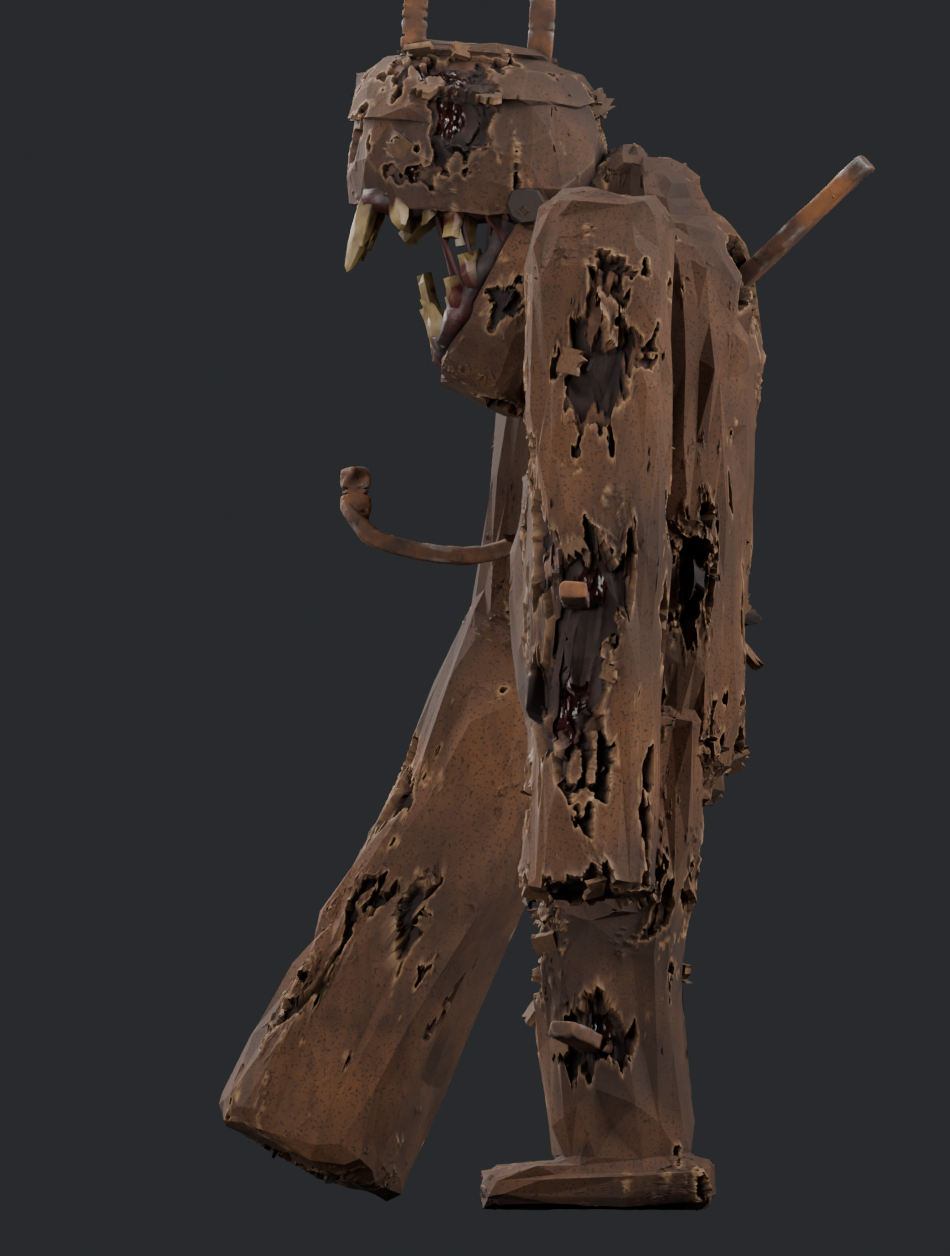
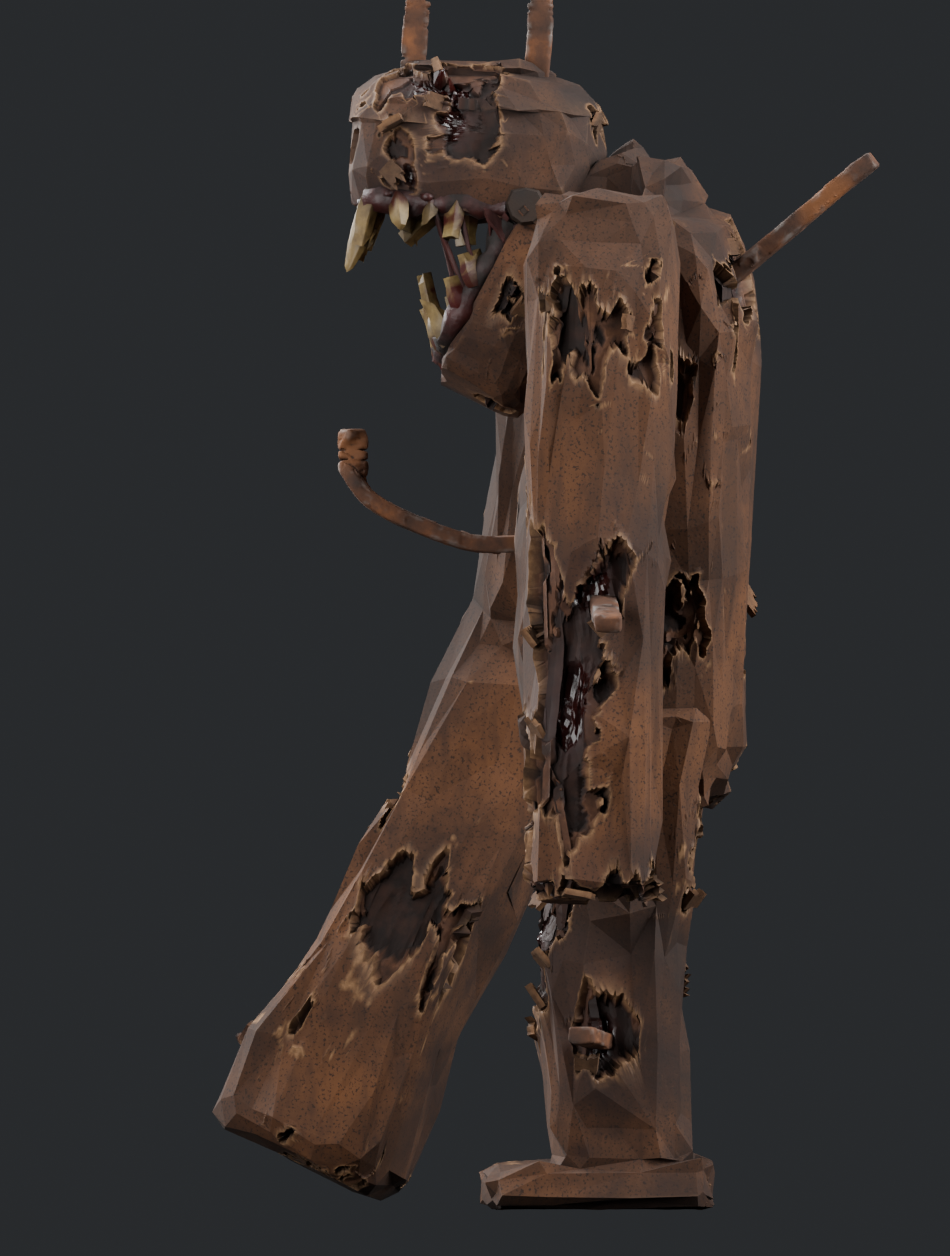
R08 HD review: side render of the corrected model; validation notes
Claude-Session: https://claude.ai/code/session_011jgRj8L94hoT2MMQsQ9zqL

diff --git a/docs/R08_GAP_ANALYSIS.md b/docs/R08_GAP_ANALYSIS.md
@@ -56,3 +56,40 @@ measured proportions.
 | `Jaw` | 11-section smooth wedge | heavy U loft tapering from the chin to the rami, condyles; ~330 facets; carved mouth floor; broken right side, chipped chin; dislocated 66° hinge |
 | `Bars`, `Crown_Bracket` | thin flat polylines | remeshed, hammered flat bars with rivets and entry wounds |
 | `Teeth_*`, `Gums_*`, `Mouth_*`, `Jaw_Hinges`, `Palate`, `Tongue`, `Throat`, `Eyes` | fitted to the old head | rebuilt for the new skull and jaw: crooked irregular plank teeth, empty hinge sockets with bent pins, torn membranes, tendons, tiny red eyes |
+
+## Validation and refinement
+
+Rendered front / three-quarter / exact side / head / mouth profile / shoulder-torso /
+long-arm views with R08-matched cameras and the dark R08-style studio, compared side by side
+(`model/renders_r08hd/_r08_vs_*.png`). Fixes made from those comparisons before presenting:
+
+- the skull had grown during the rebuild (0.64 m wide, 0.40 m above the gum line, measured):
+  resized back to R08 (0.55–0.58 m wide, 0.36 m), overall height 2.84 m;
+- the strata read as continuous bands (a drum): replaced by one wavy, broken crown cap and a
+  brow ledge on the face only, plus a rounder, asymmetric crown and swollen right cheek;
+- facets too timid: fewer, larger facets with stronger angles;
+- torn edges too busy and too pale: less high-frequency fringe, smaller lifted lips, thicker
+  shell, browner under-layers, darker cavities; the colour palette darkened and given more
+  mottling contrast;
+- the heavier jaw cut into the chest when opened: jaw tapered toward the hinge, upper chest
+  recessed (hidden by the jaw and the short arm), dislocation reduced; teeth, gums and tongue
+  are clear of the body, only the jaw's rear is anchored in the hidden neck block;
+- R08's long-arm club end is heavier, its shoulder caps chiselled: club flared, caps trimmed.
+
+## Remaining differences (honest)
+
+- **Surface crispness.** R08's facets are larger and sharper and its shell plates thicker with
+  cleanly broken edges. Ours are planar with crisp facet edges, but the torn edges are
+  finer-grained and busier, and some lifted rims stack into small blocky steps (most visible
+  around the long-arm elbow).
+- **Material.** R08 reads like a scanned rust texture with high-frequency, high-contrast
+  mottling (red-purple to near black). Ours is procedural: tone and zoning are close, the
+  surface is smoother and a little more orange in places.
+- **Damage pattern.** Same placement as R08 (knees, elbows, forearms, torso sides, belly, upper
+  back), with two strata, fibrous strands and lifted plates, but R08's knees and forearms read
+  as shredded overlapping plates where ours read more as holes with lighter fringes.
+- **Head.** Size, layout, sockets, ledges, fracture and bracket match; R08's crown is chunkier
+  and rockier. The forced-open jaw is the intended change.
+- **Teeth.** Crooked stained planks as in R08; R08's are slightly wider and flatter.
+- **Budget.** 1.56 M triangles: design resolution, to be optimised and baked for Roblox after
+  approval.
